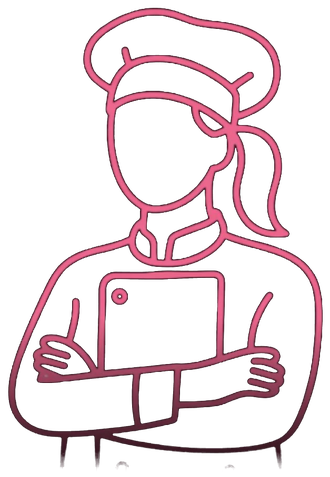
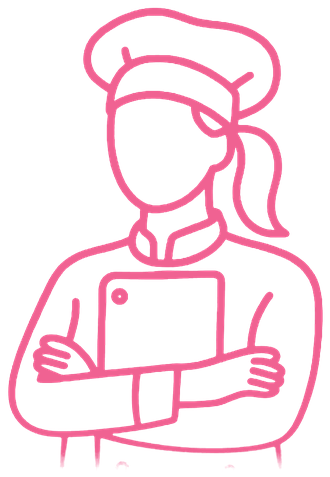
Add files via upload

Changed region(s): [[0.0, 0.0, 1.0, 0.9979], [0.3636, 0.9686, 0.3939, 0.9979]]

diff --git a/app.js b/app.js
@@ -279,16 +279,27 @@ function renderDashboard() {
         <p class="small-line">${c ? c.email : ""}</p>
       </div>
       <div class="cart-summary center-text">
-        <p class="cart-section-title">Clube Fidelidade</p>
+        <div class="card-head" style="justify-content:center">
+          <span class="card-icon gold">
+            <svg viewBox="0 0 24 24" fill="none" xmlns="http://www.w3.org/2000/svg"><path d="M3 8l4 3 5-6 5 6 4-3-2 10H5L3 8z" stroke="#C98A1E" stroke-width="1.8" stroke-linejoin="round"/></svg>
+          </span>
+          <p class="cart-section-title">Clube Fidelidade</p>
+        </div>
         <div style="font-size:42px;font-weight:800;color:var(--pink)">${points}</div>
         <div style="font-weight:700">pontos</div>
         <button class="btn btn-ghost" onclick="go('loyalty')">Ver Clube Fidelidade</button>
       </div>
       <button class="btn btn-primary btn-block btn-lg" onclick="go('guide')">Fazer uma encomenda</button>
       <div class="dash-links">
-        <button class="btn btn-outline-pill" onclick="go('profile')">Meu Perfil</button>
-        <button class="btn btn-outline-pill" onclick="go('orders')">Meus Pedidos</button>
-        <button class="btn btn-outline-pill" onclick="go('loyalty')">Fidelidade</button>
+        <button class="btn btn-outline-pill" onclick="go('profile')">
+          <svg viewBox="0 0 24 24" width="15" height="15" fill="none" style="vertical-align:-3px;margin-right:5px"><path d="M12 15a5 5 0 100-10 5 5 0 000 10zM4 21a8 8 0 0116 0" stroke="currentColor" stroke-width="1.8" stroke-linecap="round"/></svg>Meu Perfil
+        </button>
+        <button class="btn btn-outline-pill" onclick="go('orders')">
+          <svg viewBox="0 0 24 24" width="15" height="15" fill="none" style="vertical-align:-3px;margin-right:5px"><path d="M4 8h16l-1.5 11a2 2 0 01-2 1.8H7.5a2 2 0 01-2-1.8L4 8z" stroke="currentColor" stroke-width="1.8" stroke-linejoin="round"/><path d="M8 8V6a4 4 0 018 0v2" stroke="currentColor" stroke-width="1.8"/></svg>Meus Pedidos
+        </button>
+        <button class="btn btn-outline-pill" onclick="go('loyalty')">
+          <svg viewBox="0 0 24 24" width="15" height="15" fill="none" style="vertical-align:-3px;margin-right:5px"><path d="M3 8l4 3 5-6 5 6 4-3-2 10H5L3 8z" stroke="currentColor" stroke-width="1.8" stroke-linejoin="round"/></svg>Fidelidade
+        </button>
       </div>
       <button class="btn btn-ghost btn-block" onclick="handleLogout()">Sair da conta</button>
     </section>

diff --git a/style.css b/style.css
@@ -74,6 +74,7 @@ input,select,textarea{font-family:var(--font-body);}
 .cat-emoji svg{width:30px;height:30px;}
 .cat-info strong{display:block;font-family:var(--font-display);font-weight:600;font-size:18px;color:var(--ink);}
 .cat-info small{color:var(--muted);font-size:12.5px;}
+.cart-section-title{font-family:var(--font-display);font-weight:700;font-size:19px;color:var(--ink);margin:0;}
 
 /* Box list */
 .box-list{display:flex;flex-direction:column;gap:14px;}
@@ -138,7 +139,15 @@ input,select,textarea{font-family:var(--font-body);}
 .info-card p{margin:5px 0;}
 
 /* Carrinho */
-.cart-summary,.cart-form-block{background:#fff;border-radius:var(--radius-md);padding:18px;border:1px solid var(--border);display:flex;flex-direction:column;gap:7px;}
+.cart-summary,.cart-form-block{background:#fff;border-radius:24px;padding:20px 22px;border:none;box-shadow:0 10px 28px -14px rgba(224,72,124,.28);display:flex;flex-direction:column;gap:8px;}
+.card-head{display:flex;align-items:center;gap:10px;margin-bottom:2px;}
+.card-icon{width:34px;height:34px;border-radius:12px;display:flex;align-items:center;justify-content:center;flex-shrink:0;}
+.card-icon.gold{background:#FBEBCF;}
+.card-icon.pink{background:var(--pink-soft);}
+.card-icon svg{width:19px;height:19px;}
+.status-pill{display:inline-block;padding:4px 12px;border-radius:999px;font-size:11.5px;font-weight:700;}
+.status-pill.pending{background:#FDECD2;color:#B9720B;}
+.status-pill.ok{background:#DFF3E4;color:#2E7D46;}
 .cart-section-title{font-family:var(--font-display);font-weight:600;font-size:16px;color:var(--ink);margin:0 0 4px;}
 .cart-line{display:flex;justify-content:space-between;font-size:13.5px;color:var(--muted);padding:2px 0;}
 .cart-line.total{border-top:1px solid var(--border);margin-top:6px;padding-top:9px;font-weight:700;color:var(--ink);}

diff --git a/LEIA-ME.md b/LEIA-ME.md
@@ -72,4 +72,3 @@ seu, sem depender de plataforma fechada. Quando quiser seguir pra essa etapa,
 - Fotos reais dos sabores (ainda não temos as fotos)
 - Upload de imagem de referência na personalização — por ora, a cliente pode
   mandar a foto de referência direto no WhatsApp depois de enviar o pedido
- 
